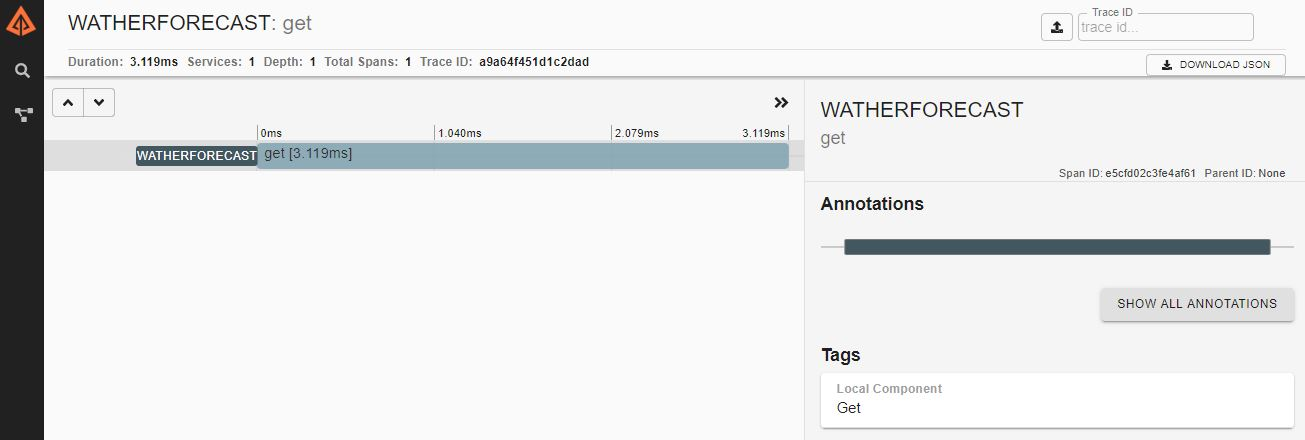
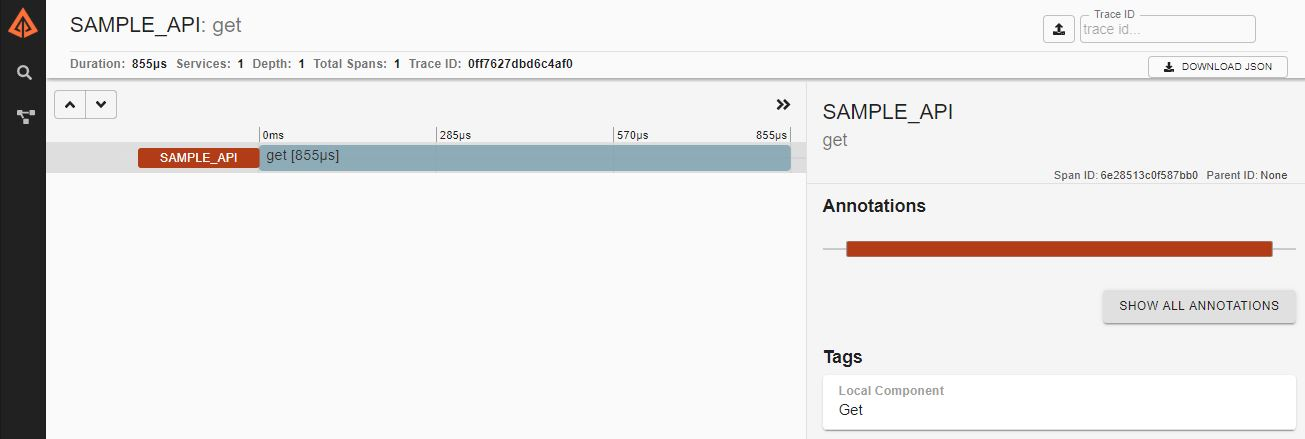
More pics on readme

diff --git a/README.md b/README.md
@@ -16,7 +16,7 @@ From your Startup.cs (or Program.cs) just create a new trace context with servic
 
 ```C#
 new TracerContextBuilder()
-.WithServiceName("WatherForecast")
+.WithServiceName("sample_api")
 .WithCollectorUri("http://localhost:9411")
 .Build();
 ```
@@ -24,9 +24,10 @@ Next we just need to tell the method that we wanna trace:
 
 ```C# 
 [Trace]
-public IEnumerable<WeatherForecast> Get()
+[HttpGet]
+public async Task<IActionResult> Get()
 {
-    //Do your stuff
+	//Do your stuff...
 }
 ```
 
@@ -35,15 +36,44 @@ But if you preffer you may tell us how to store the trace:
 
 ```C# 
 [Trace("myfancyname")]
-public IEnumerable<WeatherForecast> Get()
+[HttpGet]
+public async Task<IActionResult> Get()
 {
-    //Do your stuff...
+	//Do your stuff...
 }
 ```
 
 After this simples setup if we go to Zipkin to find our trace we will find something like this:
 
 ![Alt text](https://github.com/lfppfaria/EasyZipkin/blob/master/Images/FirstTrace.JPG?raw=true)
+
+We will automatically trace any methods with the Trace attribute within the call stack.
+So let's spice the things up a bit and call a method from our entry point.
+
+```C# 
+[HttpGet]
+[Trace]
+public async Task<IActionResult> Get()
+{
+    await new MyClassWithSomeStuff().DoSomethingAsync();
+
+    return Ok();
+}
+```
+And on my DoSomethingAsync method we just decorate with the TraceAttribute...
+
+[Trace]
+public Task DoSomethingAsync()
+{
+	//let's wait a sec..
+    System.Threading.Thread.Sleep(TimeSpan.FromSeconds(1));
+
+    return Task.CompletedTask;
+}
+
+Now let's take a look at Zipkin and we should have something like this:
+
+![Alt text](https://github.com/lfppfaria/EasyZipkin/blob/master/Images/NestedTrace.JPG?raw=true)
 
 ### Other tracing types
 
@@ -75,12 +105,20 @@ And trace the controller method as usual:
 ```C#
 [HttpGet]
 [Trace]
-public async Task<IActionResult> AnotherGet()
+public async Task<IActionResult> Get()
 {
     //Do your stuff...            
 }
 ```
 Our library automatically will detect any zipkin header and resume tracing, if the request is an untraced request we will just trace from this point onwards.
+
+If everything is wired up properly we will have a trace wich started on our client application an resume tracing on a remote resource:
+
+![Alt text](https://github.com/lfppfaria/EasyZipkin/blob/master/Images/RemoteTraceTimeline.JPG?raw=true)
+
+With the annotations giving us some info about how things happened:
+
+![Alt text](https://github.com/lfppfaria/EasyZipkin/blob/master/Images/RemoteTraceAnnotations.JPG?raw=true)
 
 #### Queues
 
